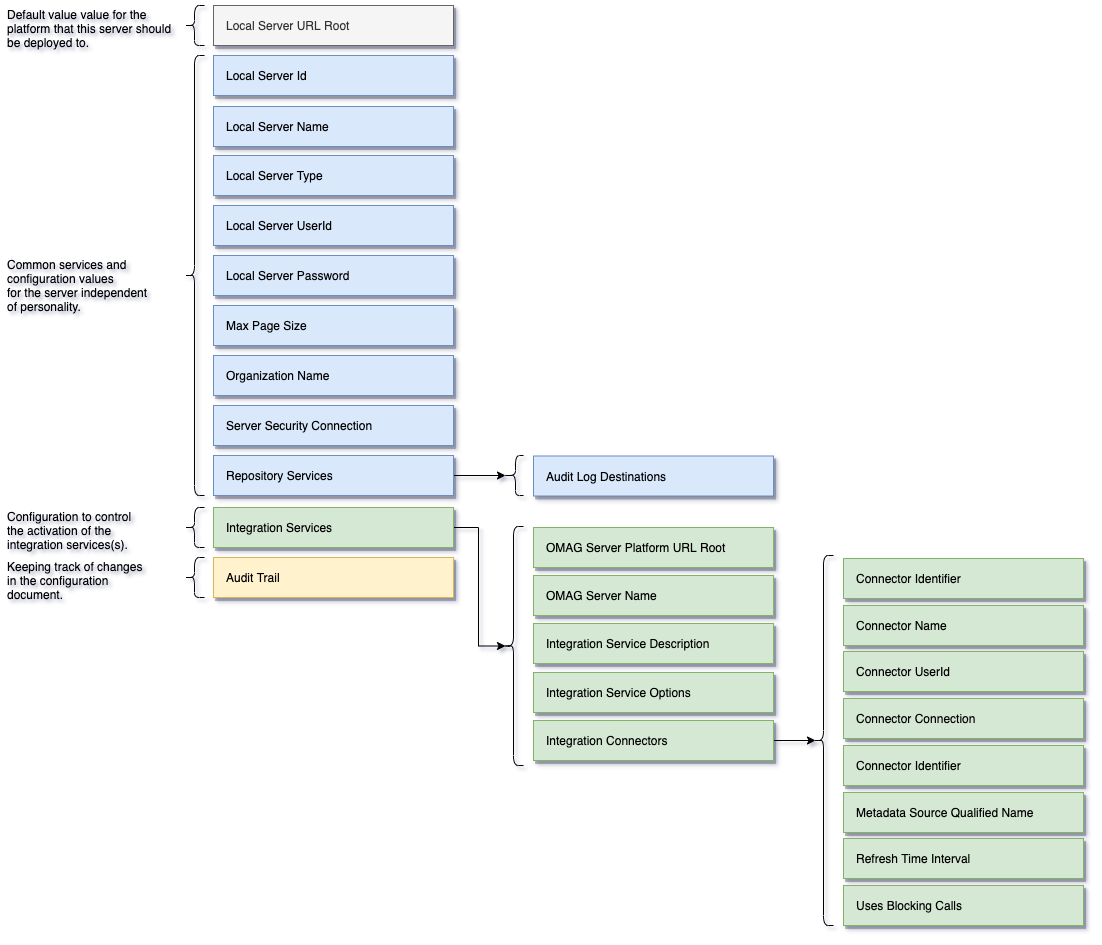
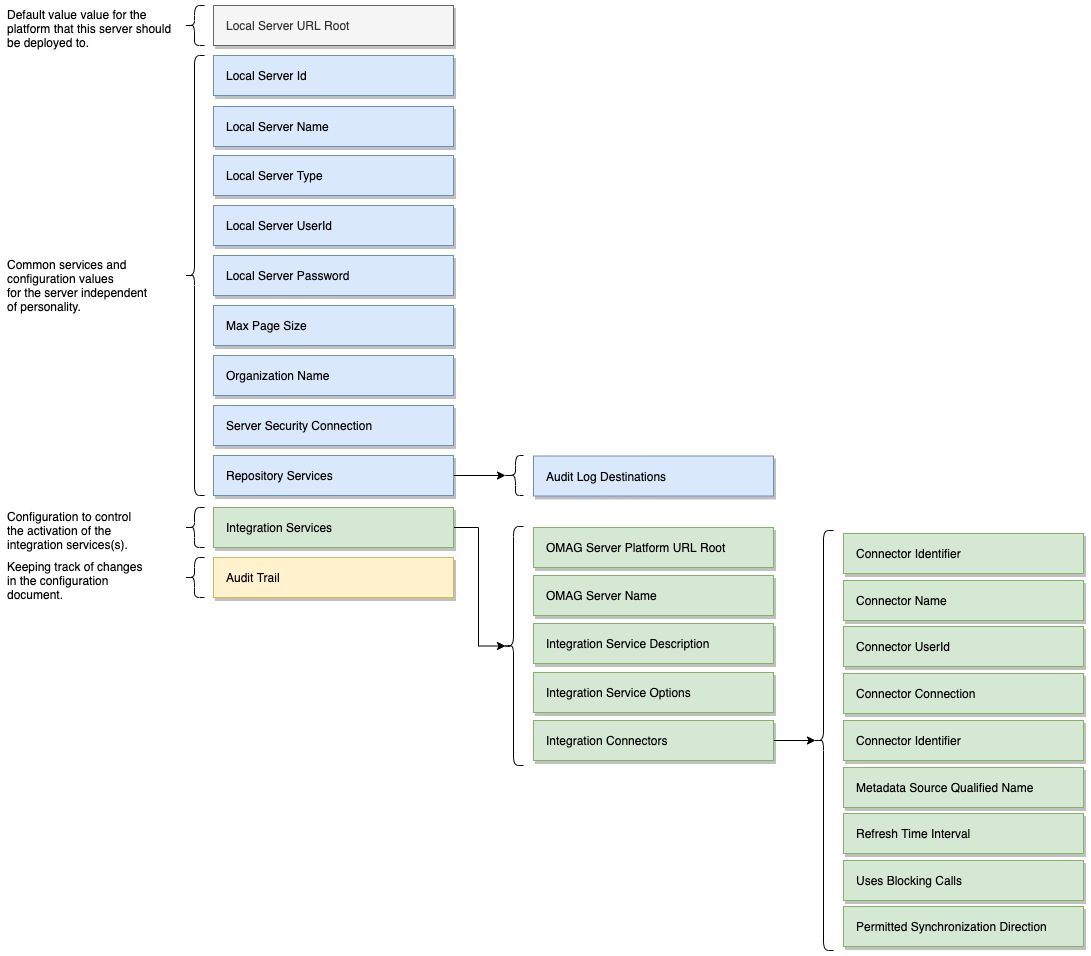
Add PermittedSynchronization to admin

diff --git a/open-metadata-implementation/admin-services/admin-services-api/src/main/java/org/odpi/openmetadata/adminservices/configuration/properties/IntegrationConnectorConfig.java b/open-metadata-implementation/admin-services/admin-services-api/src/main/java/org/odpi/openmetadata/adminservices/configuration/properties/IntegrationConnectorConfig.java
@@ -35,13 +35,14 @@ public class IntegrationConnectorConfig extends AdminServicesConfigHeader
 {
     private static final long    serialVersionUID = 1L;
 
-    private String     connectorId                 = UUID.randomUUID().toString();
-    private String     connectorName               = null;
-    private String     connectorUserId             = null;
-    private Connection connection                  = null;
-    private String     metadataSourceQualifiedName = null;
-    private long       refreshTimeInterval         = 0L;
-    private boolean    usesBlockingCalls           = false;
+    private String                   connectorId                 = UUID.randomUUID().toString();
+    private String                   connectorName               = null;
+    private String                   connectorUserId             = null;
+    private Connection               connection                  = null;
+    private String                   metadataSourceQualifiedName = null;
+    private long                     refreshTimeInterval         = 0L;
+    private boolean                  usesBlockingCalls           = false;
+    private PermittedSynchronization permittedSynchronization    = null;
 
 
     /**
@@ -70,6 +71,7 @@ public class IntegrationConnectorConfig extends AdminServicesConfigHeader
             metadataSourceQualifiedName = template.getMetadataSourceQualifiedName();
             refreshTimeInterval         = template.getRefreshTimeInterval();
             usesBlockingCalls           = template.getUsesBlockingCalls();
+            permittedSynchronization    = template.getPermittedSynchronization();
         }
     }
 
@@ -241,6 +243,30 @@ public class IntegrationConnectorConfig extends AdminServicesConfigHeader
 
 
     /**
+     * Return the permitted direction of metadata flow (see the enum definition for more details).  Any attempt
+     * by the connector to send/receive metadata in a direction that is not permitted results in a UserNotAuthorizedException.
+     *
+     * @return enum
+     */
+    public PermittedSynchronization getPermittedSynchronization()
+    {
+        return permittedSynchronization;
+    }
+
+
+    /**
+     * Set up the permitted direction of metadata flow (see the enum definition for more details).  Any attempt
+     * by the connector to send/receive metadata in a direction that is not permitted results in a UserNotAuthorizedException.
+     *
+     * @param permittedSynchronization enum
+     */
+    public void setPermittedSynchronization(PermittedSynchronization permittedSynchronization)
+    {
+        this.permittedSynchronization = permittedSynchronization;
+    }
+
+
+    /**
      * Standard toString method.
      *
      * @return JSON style description of variables.
@@ -249,14 +275,15 @@ public class IntegrationConnectorConfig extends AdminServicesConfigHeader
     public String toString()
     {
         return "IntegrationConnectorConfig{" +
-                "connectorId='" + connectorId + '\'' +
-                ", connectorName='" + connectorName + '\'' +
-                ", connectorUserId='" + connectorUserId + '\'' +
-                ", connection=" + connection +
-                ", metadataSourceQualifiedName='" + metadataSourceQualifiedName + '\'' +
-                ", refreshTimeInterval=" + refreshTimeInterval +
-                ", usesBlockingCalls=" + usesBlockingCalls +
-                '}';
+                       "connectorId='" + connectorId + '\'' +
+                       ", connectorName='" + connectorName + '\'' +
+                       ", connectorUserId='" + connectorUserId + '\'' +
+                       ", connection=" + connection +
+                       ", metadataSourceQualifiedName='" + metadataSourceQualifiedName + '\'' +
+                       ", refreshTimeInterval=" + refreshTimeInterval +
+                       ", usesBlockingCalls=" + usesBlockingCalls +
+                       ", permittedSynchronization=" + permittedSynchronization +
+                       '}';
     }
 
 
@@ -278,13 +305,14 @@ public class IntegrationConnectorConfig extends AdminServicesConfigHeader
             return false;
         }
         IntegrationConnectorConfig that = (IntegrationConnectorConfig) objectToCompare;
-        return refreshTimeInterval == that.refreshTimeInterval &&
-                usesBlockingCalls == that.usesBlockingCalls &&
-                Objects.equals(metadataSourceQualifiedName, that.metadataSourceQualifiedName) &&
-                Objects.equals(connectorId, that.connectorId) &&
-                Objects.equals(connectorName, that.connectorName) &&
-                Objects.equals(connectorUserId, that.connectorUserId) &&
-                Objects.equals(connection, that.connection);
+        return getRefreshTimeInterval() == that.getRefreshTimeInterval() &&
+                       getUsesBlockingCalls() == that.getUsesBlockingCalls() &&
+                       Objects.equals(getConnectorId(), that.getConnectorId()) &&
+                       Objects.equals(getConnectorName(), that.getConnectorName()) &&
+                       Objects.equals(getConnectorUserId(), that.getConnectorUserId()) &&
+                       Objects.equals(getConnection(), that.getConnection()) &&
+                       Objects.equals(getMetadataSourceQualifiedName(), that.getMetadataSourceQualifiedName()) &&
+                       getPermittedSynchronization() == that.getPermittedSynchronization();
     }
 
 
@@ -297,6 +325,6 @@ public class IntegrationConnectorConfig extends AdminServicesConfigHeader
     public int hashCode()
     {
         return Objects.hash(connectorId, connectorName, connectorUserId, connection, metadataSourceQualifiedName, refreshTimeInterval,
-                            usesBlockingCalls);
+                            usesBlockingCalls, permittedSynchronization);
     }
 }

diff --git a/open-metadata-implementation/admin-services/admin-services-api/src/main/java/org/odpi/openmetadata/adminservices/configuration/properties/PermittedSynchronization.java b/open-metadata-implementation/admin-services/admin-services-api/src/main/java/org/odpi/openmetadata/adminservices/configuration/properties/PermittedSynchronization.java
@@ -1,0 +1,148 @@
+/* SPDX-License-Identifier: Apache-2.0 */
+/* Copyright Contributors to the ODPi Egeria project. */
+package org.odpi.openmetadata.adminservices.configuration.properties;
+
+import com.fasterxml.jackson.annotation.JsonAutoDetect;
+import com.fasterxml.jackson.annotation.JsonIgnoreProperties;
+import com.fasterxml.jackson.annotation.JsonInclude;
+
+import java.io.Serializable;
+
+import static com.fasterxml.jackson.annotation.JsonAutoDetect.Visibility.NONE;
+import static com.fasterxml.jackson.annotation.JsonAutoDetect.Visibility.PUBLIC_ONLY;
+
+/**
+ * PermittedSynchronization defines the permitted directions of flow of metadata updates between open metadata and a third party
+ * technology.  It is setup in the configuration for an integration connector and is enforced in the integration service
+ * (in the integration context to be precise).
+ */
+@JsonAutoDetect(getterVisibility=PUBLIC_ONLY, setterVisibility=PUBLIC_ONLY, fieldVisibility=NONE)
+@JsonInclude(JsonInclude.Include.NON_NULL)
+@JsonIgnoreProperties(ignoreUnknown=true)
+public enum PermittedSynchronization implements Serializable
+{
+    BOTH_DIRECTIONS   (0, 0,"Both Directions",
+                       "Metadata exchange is permitted in both directions.  Synchronization is halted on a specific " +
+                               "element if potentially clashing updates have occurred both in the third party technology and " +
+                               "open metadata.  Such conflicts are logged on the audit log and resolved through manual stewardship."),
+    TO_THIRD_PARTY    (1, 1,"To Third Party",
+                       "The third party technology is logically downstream of open metadata.  This means the open metadata " +
+                                  "ecosystem is the originator and owner of the metadata being synchronized. Any updates detected " +
+                                  "in the third technology are overridden by the latest open metadata values."),
+    FROM_THIRD_PARTY  (2, 2,"From Third Party",
+                       "The third party technology is logically upstream (the originator and owner of the metadata).  " +
+                                  "Any updates made in open metadata are not passed to the third party technology and the " +
+                                  "third party technology is requested to refresh the open metadata version."),
+    OTHER             (99, 99,"Other",
+                       "Another type of synchronization rule - see description property."),
+    ;
+
+
+    private int    ordinal;
+    private int    openTypeOrdinal;
+    private String name;
+    private String description;
+
+    private static final long     serialVersionUID = 1L;
+
+
+    /**
+     * Constructor to set up the instance of this enum.
+     *
+     * @param ordinal code number
+     * @param openTypeOrdinal code number from the equivalent Enum Type
+     * @param name default name
+     * @param description default description
+     */
+    PermittedSynchronization(int    ordinal,
+                             int    openTypeOrdinal,
+                             String name,
+                             String description)
+    {
+        this.ordinal         = ordinal;
+        this.openTypeOrdinal = openTypeOrdinal;
+        this.name            = name;
+        this.description     = description;
+    }
+
+    public static final String ENUM_TYPE_GUID  = "973a9f4c-93fa-43a5-a0c5-d97dbd164e78";
+    public static final String ENUM_TYPE_NAME  = "PermittedSynchronization";
+
+    /**
+     * Return the code for this enum instance
+     *
+     * @return int key pattern code
+     */
+    public int getOrdinal()
+    {
+        return ordinal;
+    }
+
+
+    /**
+     * Return the code for this enum that comes from the Open Metadata Type that this enum represents.
+     *
+     * @return int code number
+     */
+    public int getOpenTypeOrdinal()
+    {
+        return openTypeOrdinal;
+    }
+
+
+    /**
+     * Return the default name for this enum instance.
+     *
+     * @return String default name
+     */
+    public String getName()
+    {
+        return name;
+    }
+
+
+    /**
+     * Return the default description for the key pattern for this enum instance.
+     *
+     * @return String default description
+     */
+    public String getDescription()
+    {
+        return description;
+    }
+
+
+    /**
+     * Return the unique identifier for the open metadata enum type that this enum class represents.
+     *
+     * @return string guid
+     */
+    public String getOpenTypeGUID() { return ENUM_TYPE_GUID; }
+
+
+    /**
+     * Return the unique name for the open metadata enum type that this enum class represents.
+     *
+     * @return string name
+     */
+    public String getOpenTypeName() { return ENUM_TYPE_NAME; }
+
+
+    /**
+     * Standard toString method.
+     *
+     * @return print out of variables in a JSON-style
+     */
+    @Override
+    public String toString()
+    {
+        return "KeyPattern{" +
+                       "openTypeOrdinal=" + openTypeOrdinal +
+                       ", ordinal=" + ordinal +
+                       ", name='" + name + '\'' +
+                       ", description='" + description + '\'' +
+                       ", openTypeGUID='" + getOpenTypeGUID() + '\'' +
+                       ", openTypeName='" + getOpenTypeName() + '\'' +
+                       '}';
+    }
+}

diff --git a/open-metadata-implementation/admin-services/admin-services-api/src/main/java/org/odpi/openmetadata/adminservices/configuration/properties/IntegrationServiceConfig.java b/open-metadata-implementation/admin-services/admin-services-api/src/main/java/org/odpi/openmetadata/adminservices/configuration/properties/IntegrationServiceConfig.java
@@ -34,6 +34,7 @@ public class IntegrationServiceConfig extends OMAGServerClientConfig
     private String                           integrationServiceDescription         = null;
     private String                           integrationServiceWiki                = null;
     private String                           integrationServicePartnerOMAS         = null;
+    private PermittedSynchronization         defaultPermittedSynchronization       = null;
     private ServiceOperationalStatus         integrationServiceOperationalStatus   = null;
     private Map<String, Object>              integrationServiceOptions             = null;
     private List<IntegrationConnectorConfig> integrationConnectorConfigs           = null;
@@ -253,6 +254,30 @@ public class IntegrationServiceConfig extends OMAGServerClientConfig
     public void setIntegrationServicePartnerOMAS(String integrationServicePartnerOMAS)
     {
         this.integrationServicePartnerOMAS = integrationServicePartnerOMAS;
+    }
+
+
+    /**
+     * Return the default value for permitted synchronization that should be set up for the integration connectors
+     * as they are configured.
+     *
+     * @return enum default
+     */
+    public PermittedSynchronization getDefaultPermittedSynchronization()
+    {
+        return defaultPermittedSynchronization;
+    }
+
+
+    /**
+     * Set up the default value for permitted synchronization that should be set up for the integration connectors
+     * as they are configured.
+     *
+     * @param defaultPermittedSynchronization enum default
+     */
+    public void setDefaultPermittedSynchronization(PermittedSynchronization defaultPermittedSynchronization)
+    {
+        this.defaultPermittedSynchronization = defaultPermittedSynchronization;
     }
 
 

diff --git a/open-metadata-implementation/admin-services/admin-services-api/src/main/java/org/odpi/openmetadata/adminservices/configuration/registration/AccessServiceDescription.java b/open-metadata-implementation/admin-services/admin-services-api/src/main/java/org/odpi/openmetadata/adminservices/configuration/registration/AccessServiceDescription.java
@@ -27,6 +27,12 @@ public enum AccessServiceDescription implements Serializable
                                       "asset-lineage",
                                       "Store asset lineage",
                                       "https://egeria.odpi.org/open-metadata-implementation/access-services/asset-lineage/"),
+    ASSET_MANAGER_OMAS               (1028,
+                                      "Asset Manager",
+                                      "Asset Manager OMAS",
+                                      "asset-manager",
+                                      "Manage metadata from a third party asset manager",
+                                      "https://egeria.odpi.org/open-metadata-implementation/access-services/asset-manager/"),
     ASSET_OWNER_OMAS                 (1002,
                                       "Asset Owner",
                                       "Asset Owner OMAS",

diff --git a/open-metadata-implementation/admin-services/admin-services-api/src/main/java/org/odpi/openmetadata/adminservices/ffdc/OMAGAdminAuditCode.java b/open-metadata-implementation/admin-services/admin-services-api/src/main/java/org/odpi/openmetadata/adminservices/ffdc/OMAGAdminAuditCode.java
@@ -389,7 +389,7 @@ public enum OMAGAdminAuditCode implements AuditLogMessageSet
 
     /**
      * The constructor for OMAGAdminAuditCode expects to be passed one of the enumeration rows defined in
-     * AssetConsumerAuditCode above.   For example:
+     * OMAGAdminAuditCode above.   For example:
      *
      *     OMAGAdminAuditCode   auditCode = OMAGAdminAuditCode.SERVER_NOT_AVAILABLE;
      *

diff --git a/open-metadata-implementation/admin-services/docs/user/configuring-the-integration-services.md b/open-metadata-implementation/admin-services/docs/user/configuring-the-integration-services.md
@@ -11,7 +11,7 @@ Each integration service hosts one or more [integration connectors](../../../gov
 is responsible for the exchange of metadata with a specific deployment of a third party technology.
 For example, the [Database Integrator](../../../integration-services/database-integrator) integration service
 supports integration connectors that work with relational databases (RDBMS).
-A deployment of this service in an integration daemon may host
+A deployment of this service in an integration daemon may host, say,
 two integration connectors each loading metadata from their own relational database server.
 
 It is possible to get a description of each of the registered
@@ -54,7 +54,8 @@ POST {serverURLRoot}/open-metadata/admin-services/users/{adminUserId}/servers/{s
              "connection" : { ... },               
              "metadataSourceQualifiedName" : " ... ",
              "refreshTimeInterval" : "60", 
-             "usesBlockingCalls" : "false"
+             "usesBlockingCalls" : "false",
+             "permittedSynchronization" : " ... "
         } ]      
 }
 ```
@@ -71,6 +72,23 @@ Where:
   is only called at server start up and whenever the refresh REST API request is made to the integration daemon.                     
   If the refresh time interval is greater than 0 then additional calls to refresh are added spaced out by the refresh time interval.        
 * **usesBlockingCalls** - Set up whether the connector should be started in its own thread to allow it is block on a listening call.
+* **permittedSynchronization** - An optional property that defines the permitted directions of metadata flow
+  between the third party technology and open metadata.  If the integration connector
+  attempts to flow metadata in a direction that is not permitted, it receives the `UserNotAuthorizedException`.
+  The default for this value is set up automatically in the integration service's descriptive information so this
+  value only needs to be set if it is necessary to restrict the behavior of the
+  connector.  These are the different values for this property and their effect.
+  
+  *    "TO_THIRD_PARTY" - The third party technology is logically downstream of open metadata.  This means the open metadata
+                        ecosystem is the originator and owner of the metadata being synchronized. Any updates detected
+                        in the third technology are overridden by the latest open metadata values.
+  *    "FROM_THIRD_PARTY" - The third party technology is logically upstream (the originator and owner of the metadata). 
+                        Any updates made in open metadata are not passed to the third party technology and the
+                        third party technology is requested to refresh the open metadata version.
+  *    "BOTH_DIRECTIONS" - Metadata exchange is permitted in both directions.  Synchronization is halted on a specific
+                        element if potentially clashing updates have occurred both in the third party technology and
+                        open metadata.  Such conflicts are logged on the audit log and resolved through manual stewardship.
+
 
 
 
